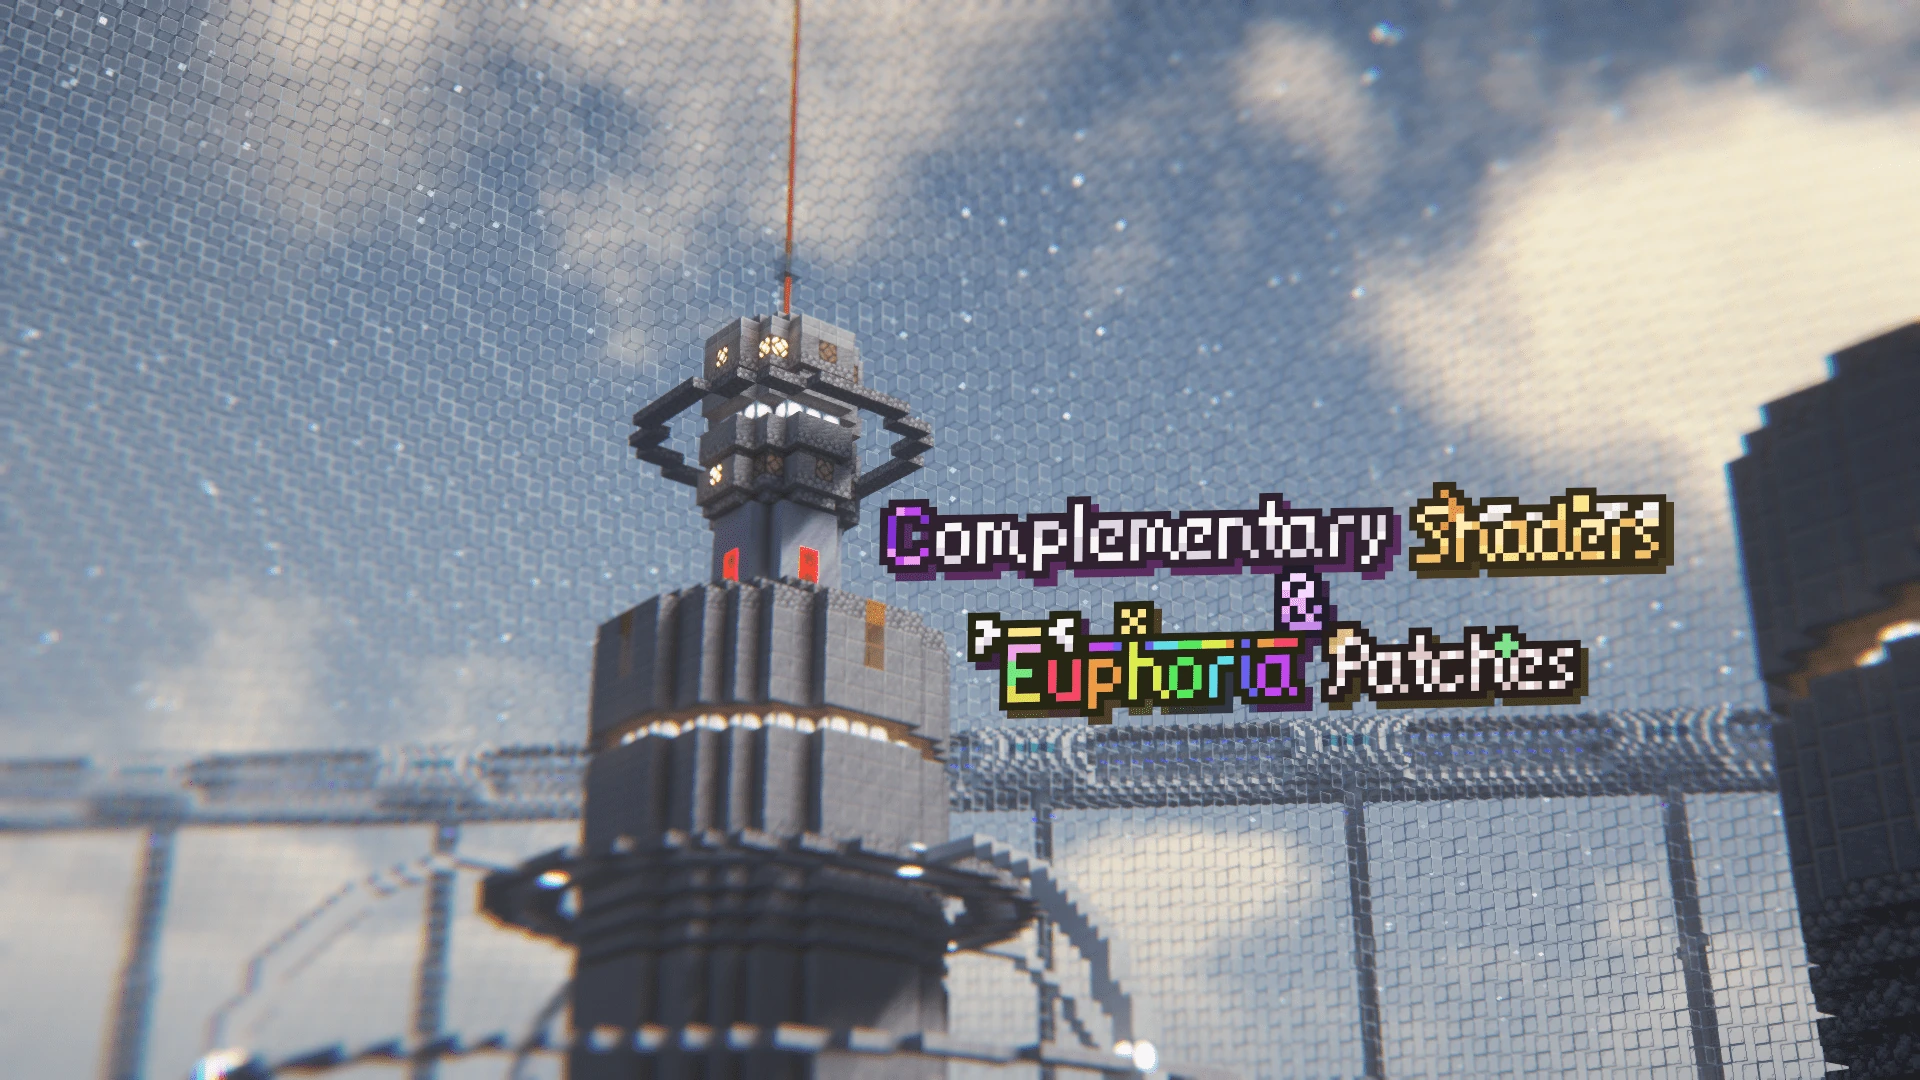
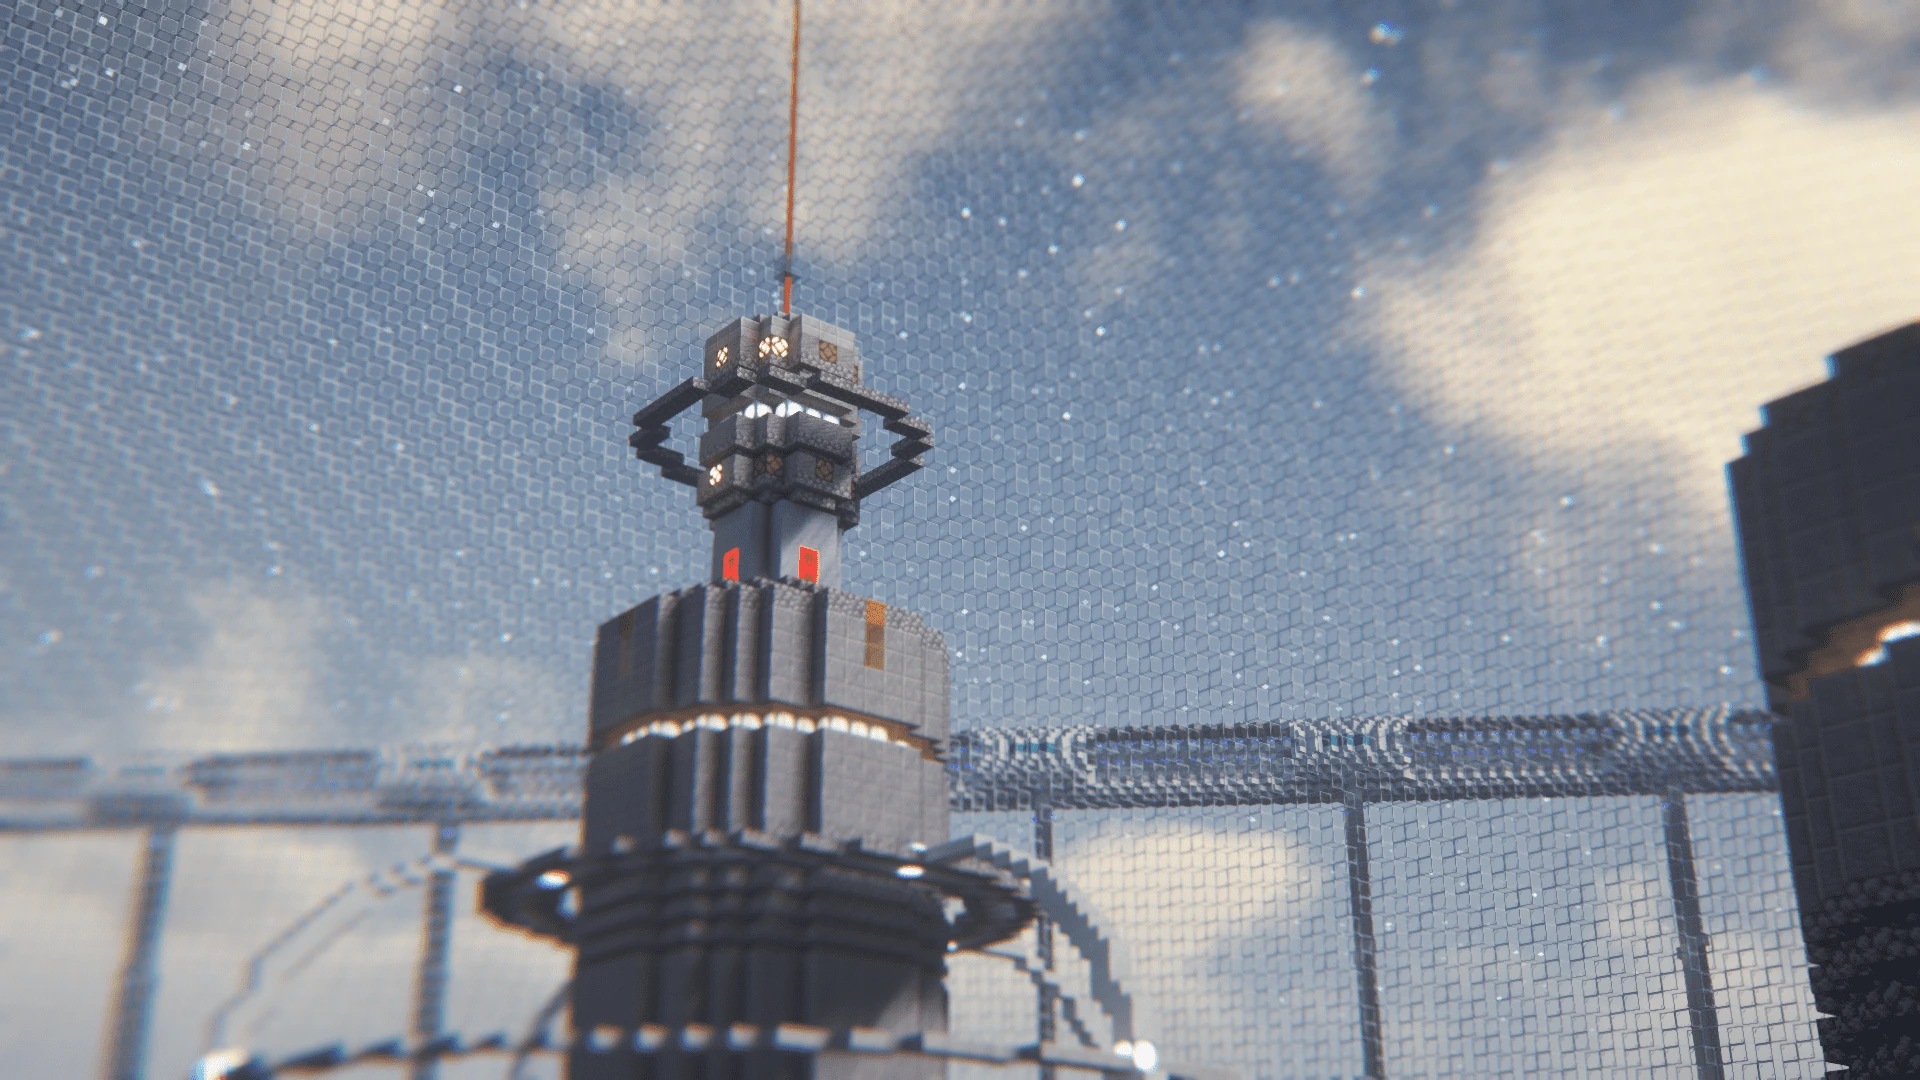
files

Changed region(s): [[0.4375, 0.4278, 0.875, 0.6722]]

diff --git a/assets/css/style.css b/assets/css/style.css
@@ -902,7 +902,7 @@ html, body {
 /* HERO
 ================================================== */
 .hero { 
-    background: url(../img/Screenshots/2024-06-12_13.13.54.png) no-repeat top / cover;
+    background: url(../img/Screenshots/mainBackground.webp) no-repeat top / cover;
     background-position: center -200px;
     height: 100%;
     width: 100%;
@@ -1418,7 +1418,7 @@ table, th, td {
 }
 
 .section-kofi_img {
-    background: url(../img/other/kofibanner.webp) no-repeat top / cover;
+    background: url(../img/other/kofi_banner.webp) no-repeat top / cover;
 }
 
 .section-click-box h2 {

diff --git a/index.html b/index.html
@@ -77,7 +77,7 @@
             <div class="tilted-box-container "onclick="location.href='/download';">
                 <div class="tilted-box-container">
                     <div class="tilted-box">
-                        <img src="/assets/img/other/euphoria_patches - Copy.png" alt="Image inside tilted box">
+                        <img src="/assets/img/other/euphoria_patches_banner.webp" alt="Image inside tilted box">
                     </div>
                     <div class="popup-container">
                         <div class="hero-text">
